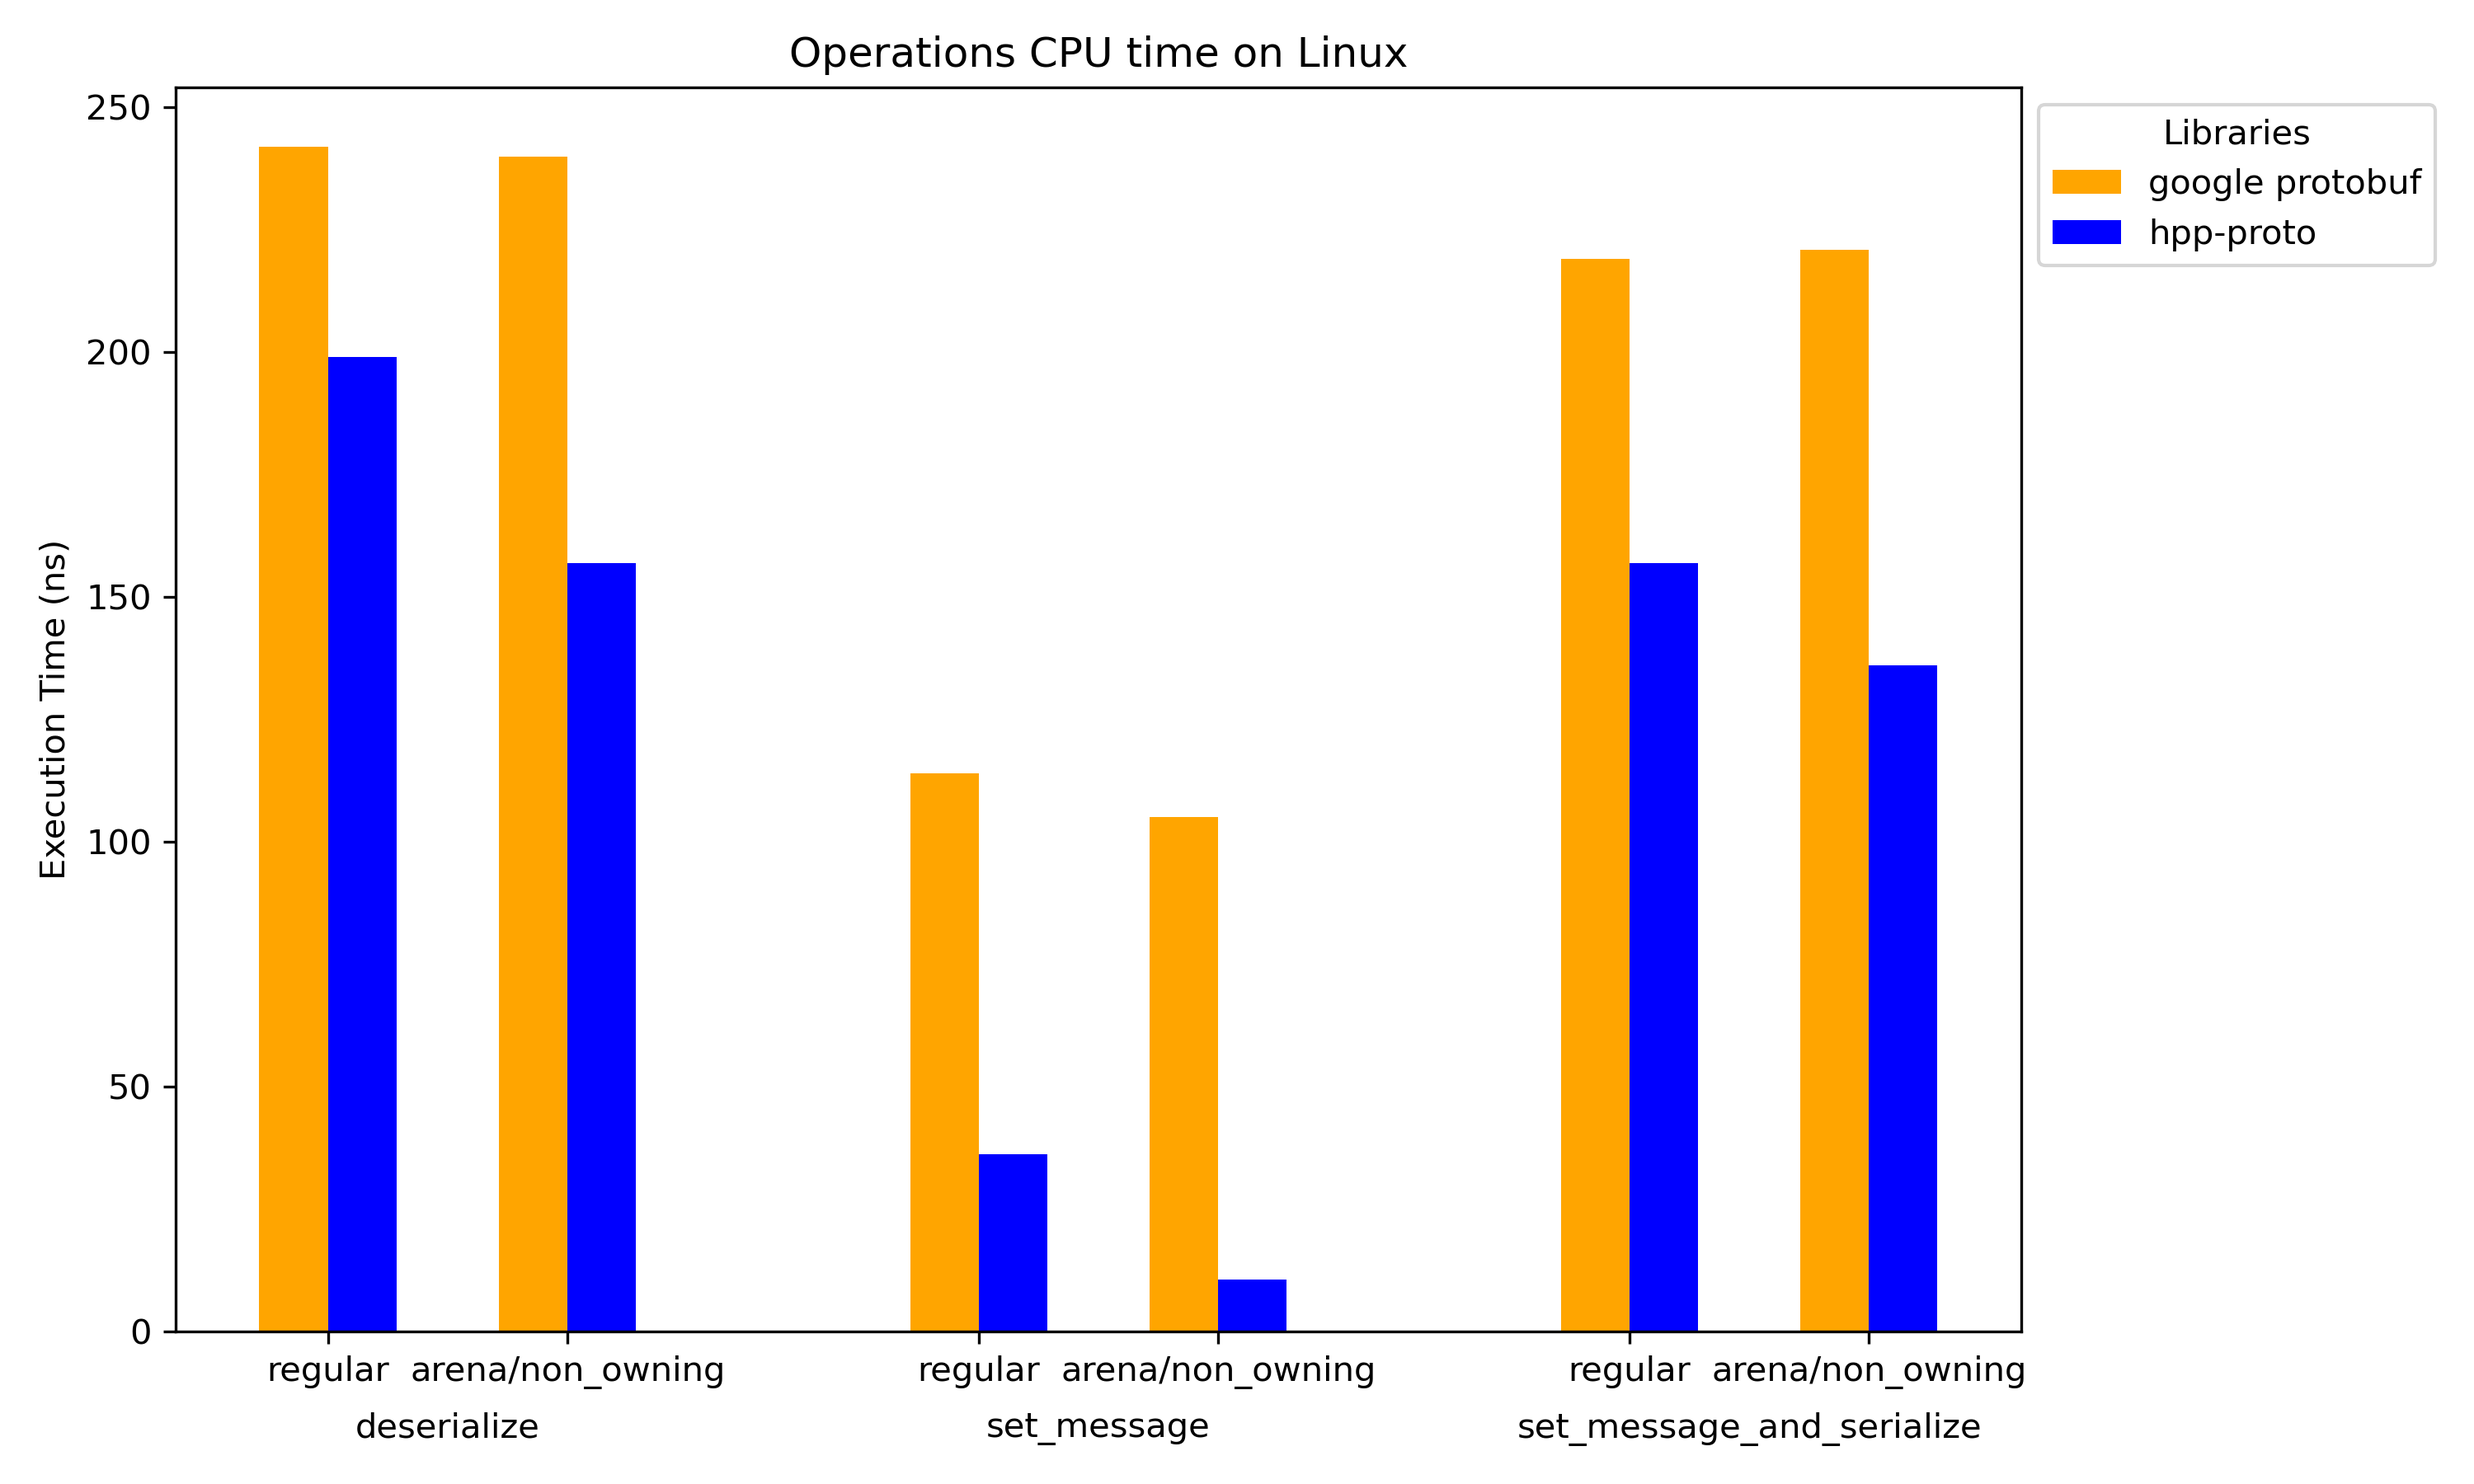
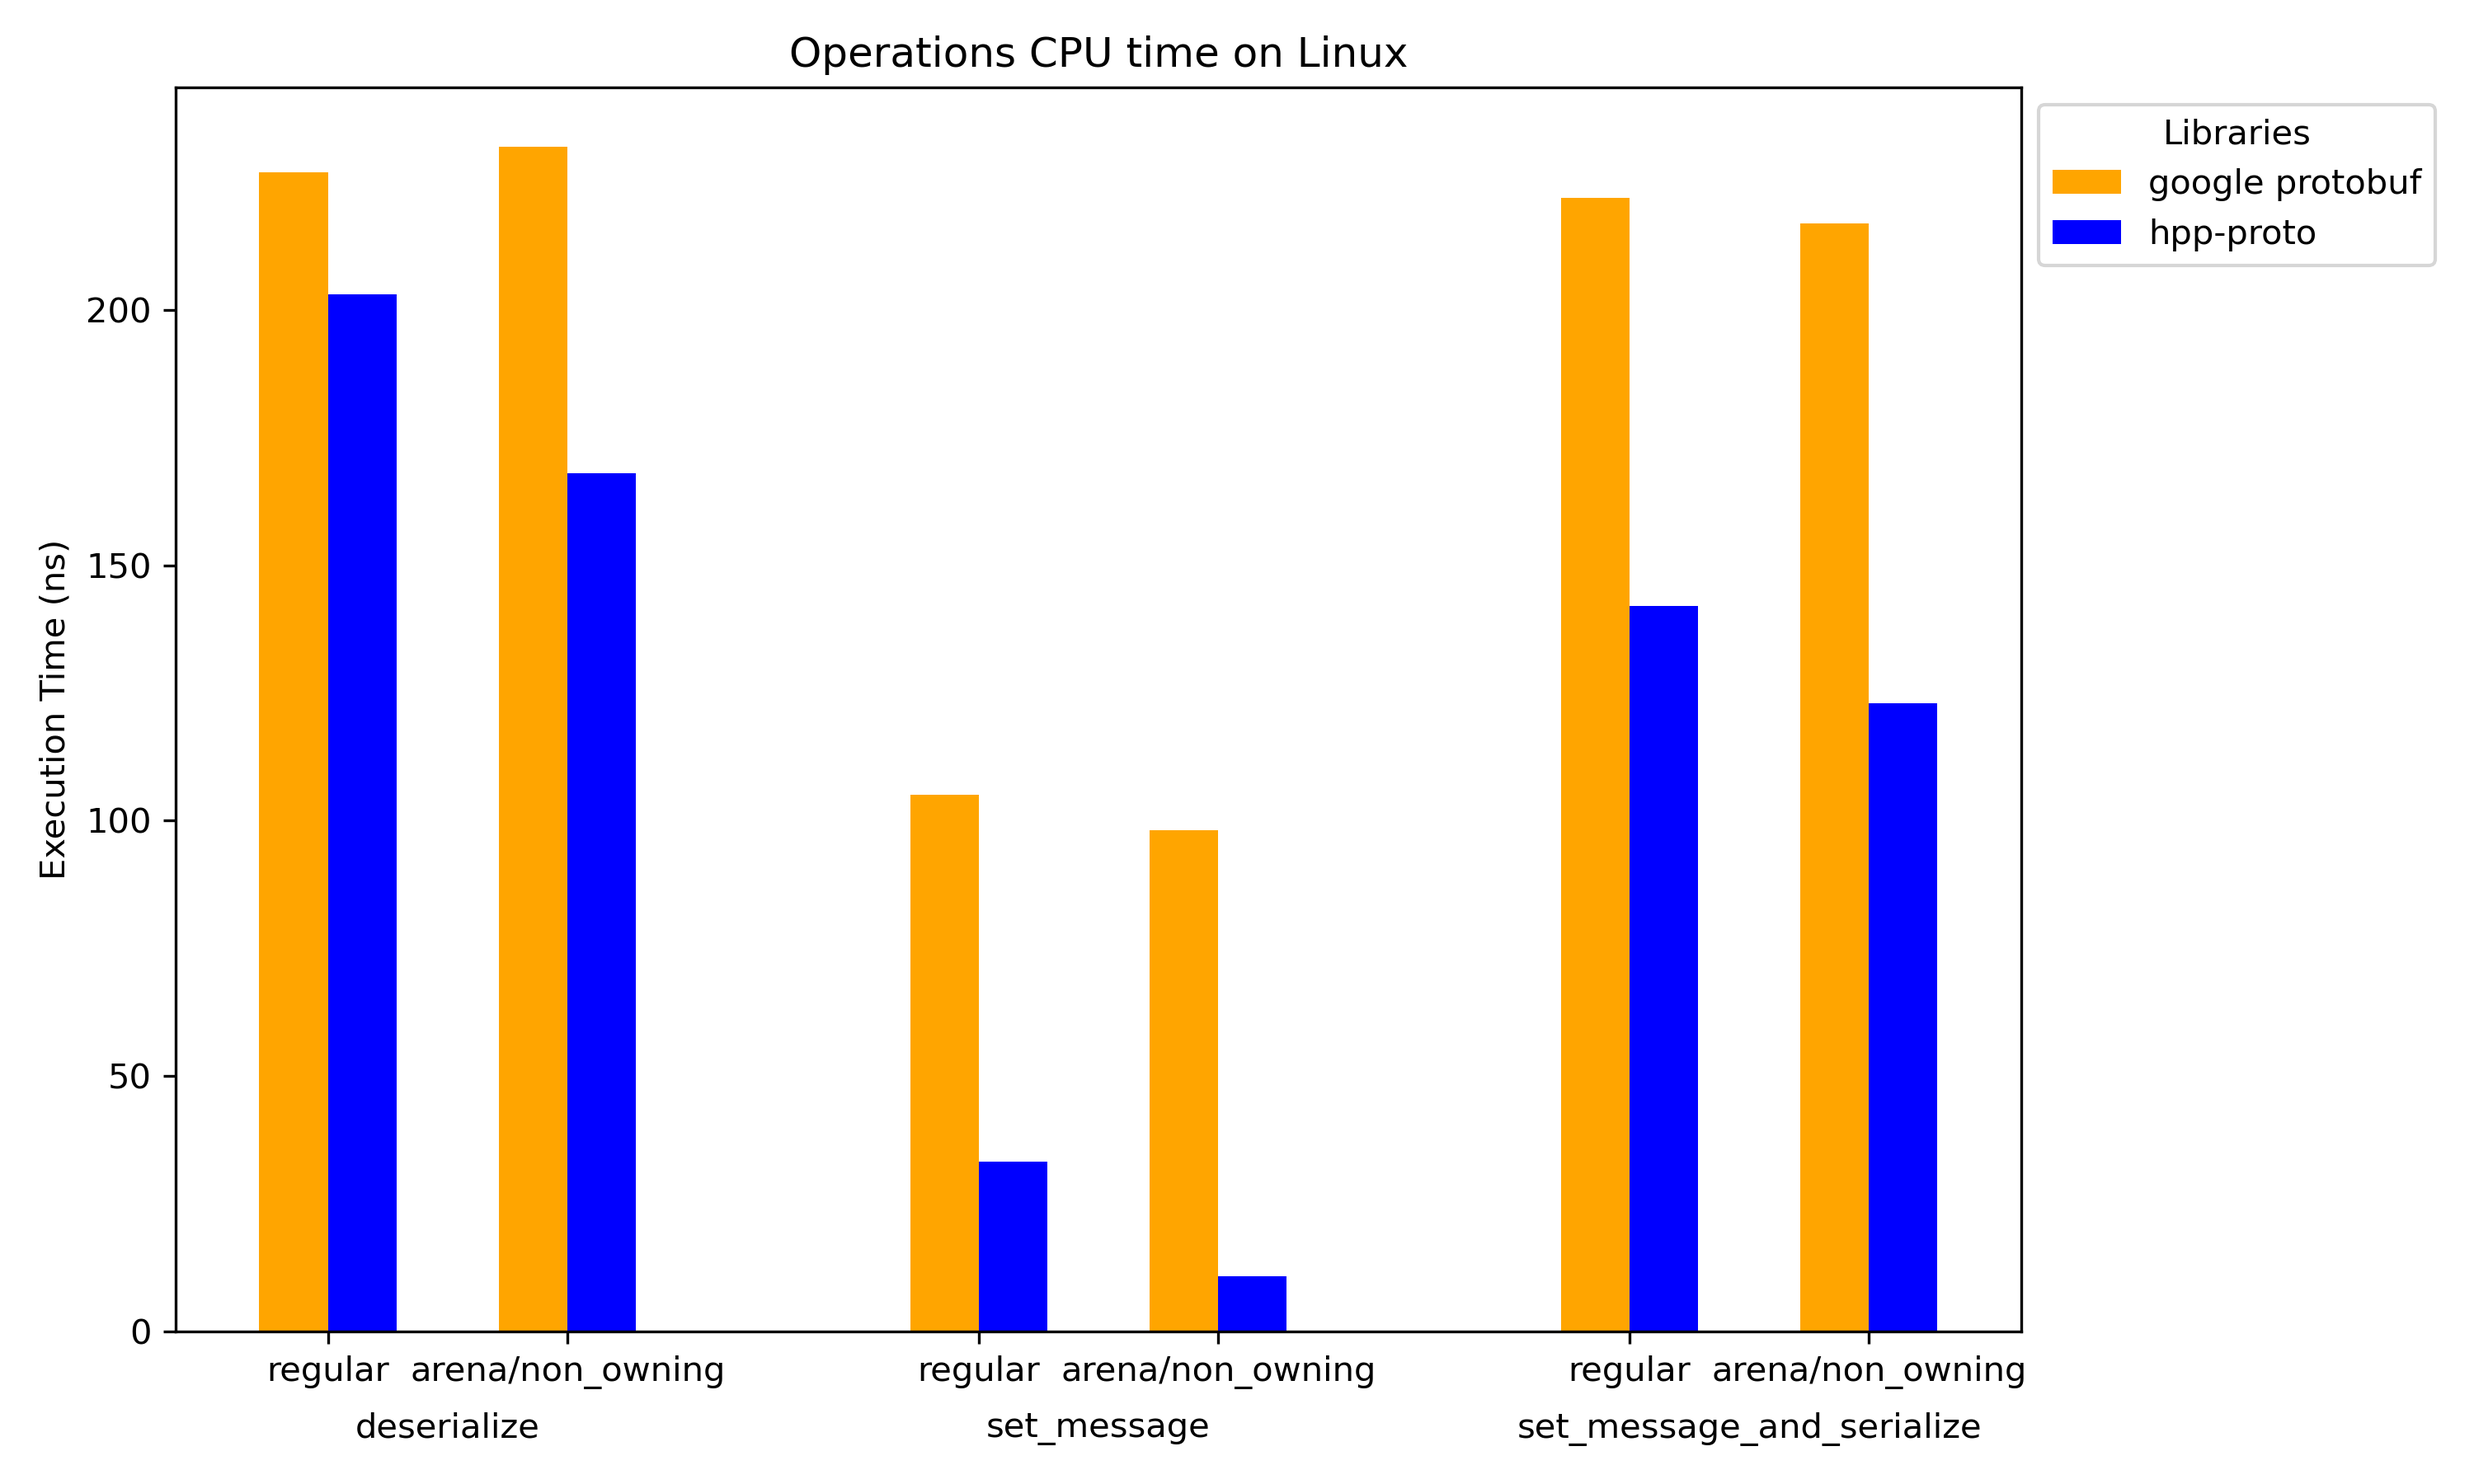
Update Linux benchmark

diff --git a/benchmarks/benchmark.cpp b/benchmarks/benchmark.cpp
@@ -1,7 +1,6 @@
 #include "benchmark_messages_proto2.pb.h"
 #include "hpp/benchmark_messages_proto2.pb.hpp"
 #include <benchmark/benchmark.h>
-#include <fstream>
 #include <memory_resource>
 #include <random>
 
@@ -36,6 +35,17 @@ inline void set_message_google(auto &message) {
   message.set_field100(31);
 }
 
+inline std::string make_big_string(std::size_t size) {
+  static constexpr std::string_view alphabet =
+      "abcdefghijklmnopqrstuvwxyzABCDEFGHIJKLMNOPQRSTUVWXYZ0123456789_-";
+  std::string out;
+  out.reserve(size);
+  for (std::size_t i = 0; i < size; ++i) {
+    out.push_back(alphabet[i % alphabet.size()]);
+  }
+  return out;
+}
+
 inline void set_message_hpp(auto &message) {
   message.field1 = "";
   message.field2 = 8;
@@ -67,6 +77,29 @@ std::span<char> get_GoogleMessage1_data() {
   return data;
 }
 
+std::span<char> get_GoogleMessage1_big_data() {
+  static std::span<char> data;
+  if (data.empty()) {
+    benchmarks::proto2::GoogleMessage1 msg;
+    set_message_google(msg);
+    // Inflate string fields so parsing does real heap allocations.
+    static const std::string big = make_big_string(512);
+    static const std::string huge = make_big_string(2048);
+    msg.set_field1(big);
+    msg.set_field4(big);
+    msg.set_field7(big);
+    msg.set_field9(huge);
+    msg.set_field18(big);
+    msg.set_field102(big);
+    msg.set_field103(big);
+    msg.set_field129(big);
+    msg.mutable_field15()->set_field15(huge);
+    static std::string storage = msg.SerializeAsString();
+    data = std::span{storage};
+  }
+  return data;
+}
+
 std::span<char> get_data(benchmarks::proto2::GoogleMessage1 * /*unused*/) { return get_GoogleMessage1_data(); }
 std::span<char> get_data(benchmarks::proto3::GoogleMessage1 * /*unused*/) { return get_GoogleMessage1_data(); }
 std::span<char> get_data(hpp::benchmarks::proto2::GoogleMessage1<> * /*unused*/) { return get_GoogleMessage1_data(); }
@@ -76,6 +109,21 @@ std::span<char> get_data(hpp::benchmarks::proto2::GoogleMessage1<hpp::proto::non
 }
 std::span<char> get_data(hpp::benchmarks::proto3::GoogleMessage1<hpp::proto::non_owning_traits> * /*unused*/) {
   return get_GoogleMessage1_data();
+}
+
+std::span<char> get_data_big(benchmarks::proto2::GoogleMessage1 * /*unused*/) { return get_GoogleMessage1_big_data(); }
+std::span<char> get_data_big(benchmarks::proto3::GoogleMessage1 * /*unused*/) { return get_GoogleMessage1_big_data(); }
+std::span<char> get_data_big(hpp::benchmarks::proto2::GoogleMessage1<> * /*unused*/) {
+  return get_GoogleMessage1_big_data();
+}
+std::span<char> get_data_big(hpp::benchmarks::proto3::GoogleMessage1<> * /*unused*/) {
+  return get_GoogleMessage1_big_data();
+}
+std::span<char> get_data_big(hpp::benchmarks::proto2::GoogleMessage1<hpp::proto::non_owning_traits> * /*unused*/) {
+  return get_GoogleMessage1_big_data();
+}
+std::span<char> get_data_big(hpp::benchmarks::proto3::GoogleMessage1<hpp::proto::non_owning_traits> * /*unused*/) {
+  return get_GoogleMessage1_big_data();
 }
 
 std::span<char> get_packed_repeated_data() {
@@ -126,11 +174,27 @@ BENCHMARK(google_deserialize_regular<benchmarks::proto2::GoogleMessage1>);
 BENCHMARK(google_deserialize_regular<benchmarks::proto3::GoogleMessage1>);
 
 template <typename Message>
+void google_deserialize_regular_big(benchmark::State &state) {
+  auto data = get_data_big((Message *)nullptr);
+  size_t total = 0;
+  for (auto _ : state) {
+    Message message;
+    auto r = message.ParseFromArray(data.data(), static_cast<int>(data.size()));
+    total += data.size();
+    benchmark::DoNotOptimize(r);
+  }
+  state.SetBytesProcessed(static_cast<int64_t>(total));
+}
+BENCHMARK(google_deserialize_regular_big<benchmarks::proto2::GoogleMessage1>);
+BENCHMARK(google_deserialize_regular_big<benchmarks::proto3::GoogleMessage1>);
+
+template <typename Message>
 void google_deserialize_arena(benchmark::State &state) {
   auto data = get_data((Message *)nullptr);
   size_t total = 0;
+  google::protobuf::Arena arena;
   for (auto _ : state) {
-    google::protobuf::Arena arena;
+    arena.Reset();
     auto *message = google::protobuf::Arena::Create<Message>(&arena);
     auto r = message->ParseFromArray(data.data(), static_cast<int>(data.size()));
     total += data.size();
@@ -140,6 +204,23 @@ void google_deserialize_arena(benchmark::State &state) {
 }
 BENCHMARK(google_deserialize_arena<benchmarks::proto2::GoogleMessage1>);
 BENCHMARK(google_deserialize_arena<benchmarks::proto3::GoogleMessage1>);
+
+template <typename Message>
+void google_deserialize_arena_big(benchmark::State &state) {
+  auto data = get_data_big((Message *)nullptr);
+  size_t total = 0;
+  google::protobuf::Arena arena;
+  for (auto _ : state) {
+    arena.Reset();
+    auto *message = google::protobuf::Arena::Create<Message>(&arena);
+    auto r = message->ParseFromArray(data.data(), static_cast<int>(data.size()));
+    total += data.size();
+    benchmark::DoNotOptimize(r);
+  }
+  state.SetBytesProcessed(static_cast<int64_t>(total));
+}
+BENCHMARK(google_deserialize_arena_big<benchmarks::proto2::GoogleMessage1>);
+BENCHMARK(google_deserialize_arena_big<benchmarks::proto3::GoogleMessage1>);
 
 template <typename Message>
 void hpp_proto_deserialize_regular(benchmark::State &state) {
@@ -155,6 +236,21 @@ void hpp_proto_deserialize_regular(benchmark::State &state) {
 }
 BENCHMARK(hpp_proto_deserialize_regular<hpp::benchmarks::proto2::GoogleMessage1<>>);
 BENCHMARK(hpp_proto_deserialize_regular<hpp::benchmarks::proto3::GoogleMessage1<>>);
+
+template <typename Message>
+void hpp_proto_deserialize_regular_big(benchmark::State &state) {
+  auto data = get_data_big((Message *)nullptr);
+  size_t total = 0;
+  for (auto _ : state) {
+    Message message;
+    auto r = hpp::proto::read_binpb(message, data);
+    total += data.size();
+    benchmark::DoNotOptimize(r);
+  }
+  state.SetBytesProcessed(static_cast<int64_t>(total));
+}
+BENCHMARK(hpp_proto_deserialize_regular_big<hpp::benchmarks::proto2::GoogleMessage1<>>);
+BENCHMARK(hpp_proto_deserialize_regular_big<hpp::benchmarks::proto3::GoogleMessage1<>>);
 
 template <typename Message>
 void hpp_proto_deserialize_nonowning(benchmark::State &state) {
@@ -187,8 +283,9 @@ BENCHMARK(google_set_message_regular<benchmarks::proto3::GoogleMessage1>);
 
 template <typename Message>
 void google_set_message_arena(benchmark::State &state) {
+  google::protobuf::Arena arena;
   for (auto _ : state) {
-    google::protobuf::Arena arena;
+    arena.Reset();
     auto *message = google::protobuf::Arena::Create<Message>(&arena);
     set_message_google(*message);
     benchmark::DoNotOptimize(message);
@@ -227,8 +324,9 @@ BENCHMARK(google_set_message_and_serialize_regular<benchmarks::proto3::GoogleMes
 template <typename Message>
 void google_set_message_and_serialize_arena(benchmark::State &state) {
   size_t total = 0;
+  google::protobuf::Arena arena;
   for (auto _ : state) {
-    google::protobuf::Arena arena;
+    arena.Reset();
     auto *message = google::protobuf::Arena::Create<Message>(&arena);
     set_message_google(*message);
     std::string buffer;
@@ -369,7 +467,8 @@ void hpp_proto_deserialize_padded_nonowning(benchmark::State &state) {
   for (auto _ : state) {
     std::pmr::monotonic_buffer_resource memory_resource(buf.data(), buf.size());
     Message message;
-    auto r = hpp::proto::read_binpb(message, data, hpp::proto::padded_input, hpp::proto::alloc_from{memory_resource});
+    auto r = hpp::proto::read_binpb(message, data, hpp::proto::padded_input,
+                                    hpp::proto::alloc_from{memory_resource});
     total += data.size();
     benchmark::DoNotOptimize(r);
   }
@@ -385,5 +484,13 @@ BENCHMARK(google_deserialize_arena<repeated_packed::TestMessage>);
 BENCHMARK(hpp_proto_deserialize_regular<hpp::repeated_packed::TestMessage<>>);
 BENCHMARK(hpp_proto_deserialize_nonowning<hpp::repeated_packed::TestMessage<hpp::proto::non_owning_traits>>);
 
-BENCHMARK_MAIN();
+
+int main(int argc, char **argv) {
+  benchmark::Initialize(&argc, argv);
+  if (benchmark::ReportUnrecognizedArguments(argc, argv)) {
+    return 1;
+  }
+  benchmark::RunSpecifiedBenchmarks();
+  return 0;
+}
 // NOLINTEND(cppcoreguidelines-avoid-non-const-global-variables)
